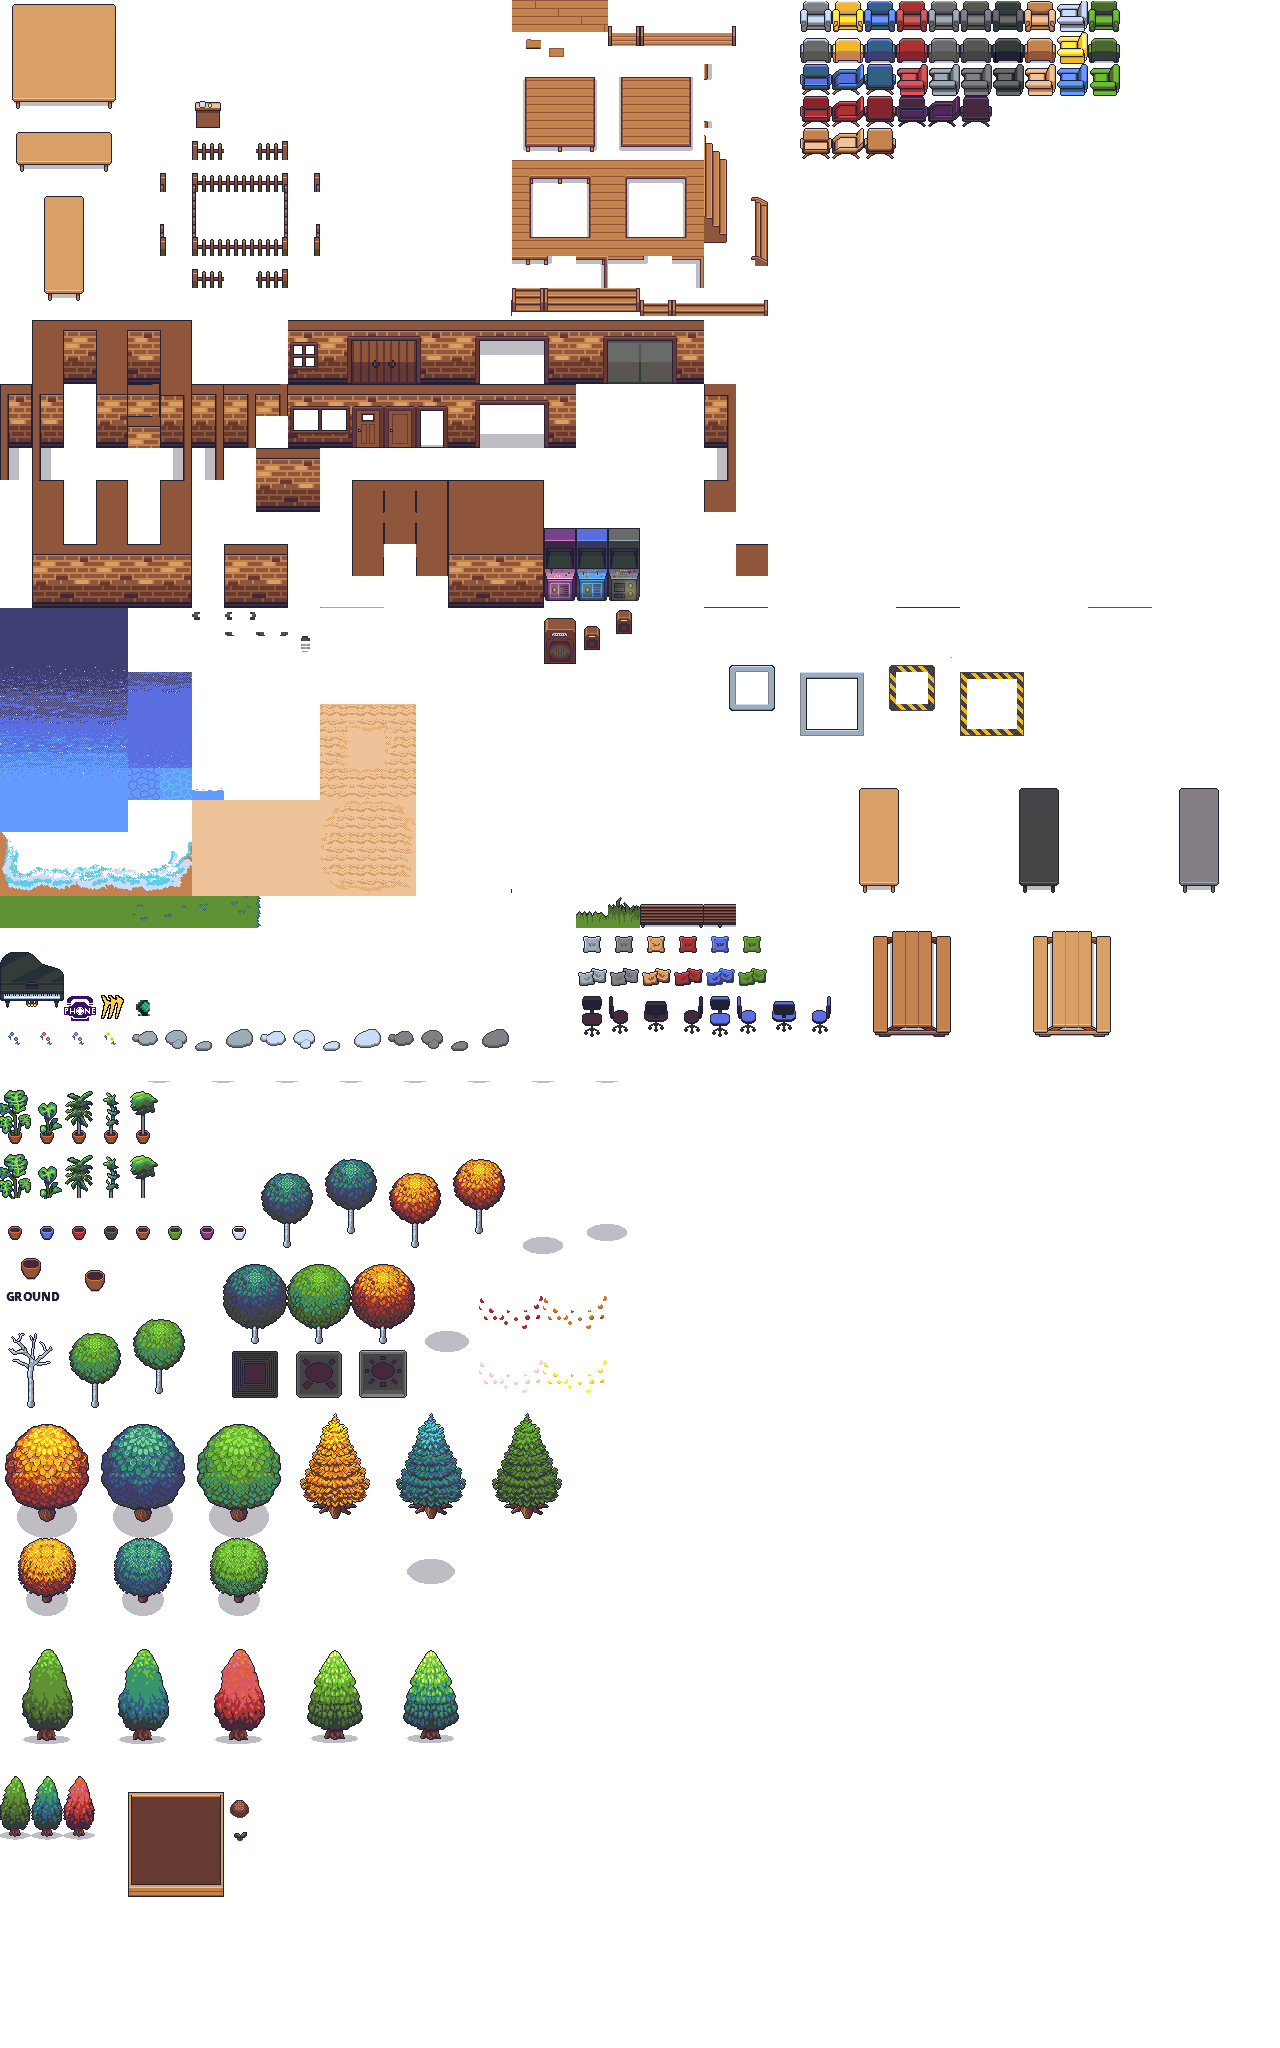
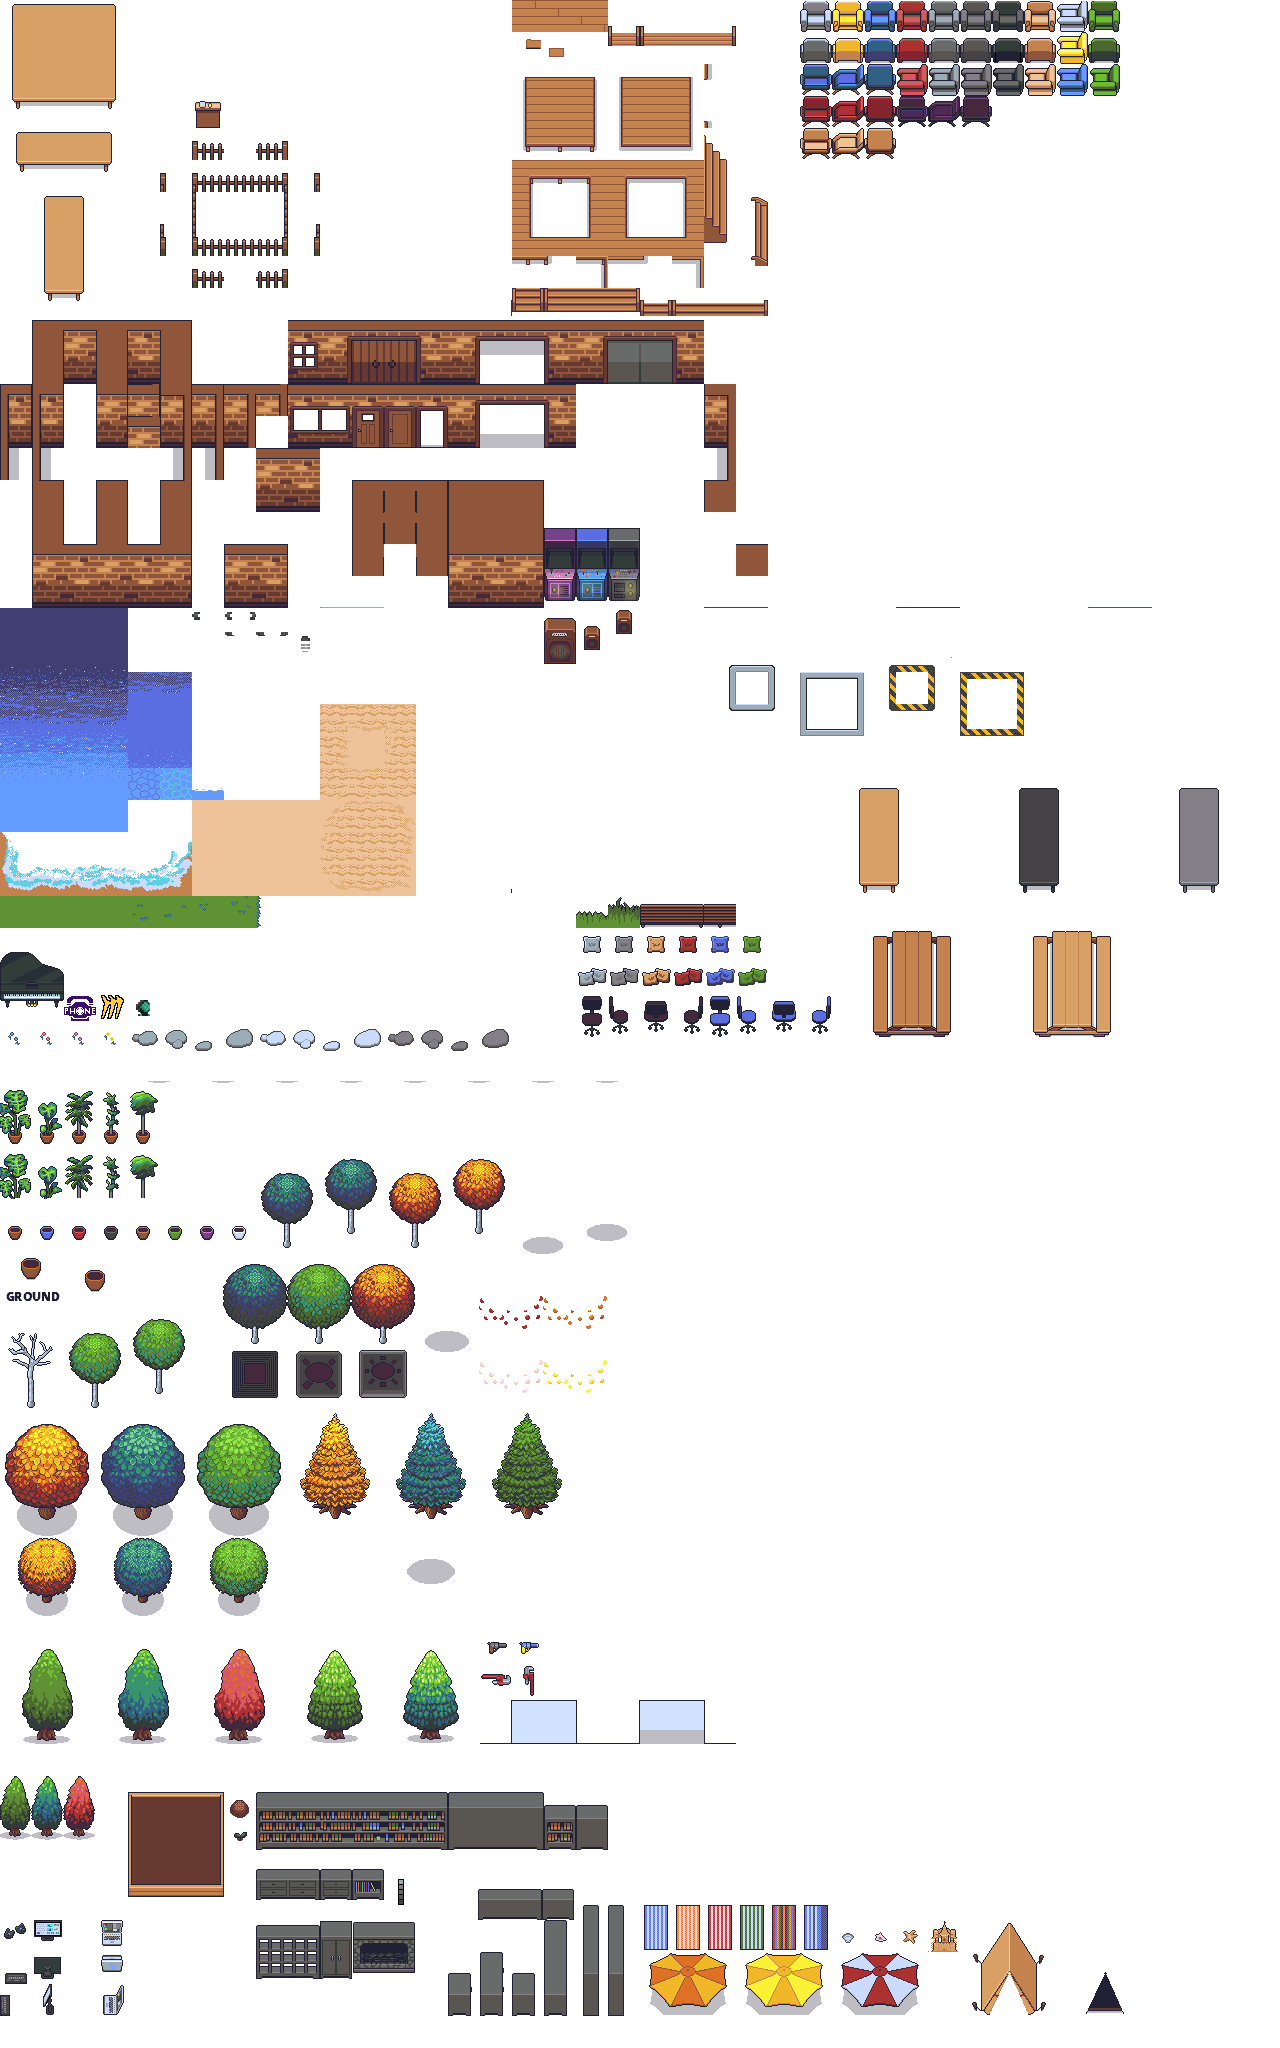
Nicer map and added controls for presentation

diff --git a/src/main/nodes/PresentationBoardNode.ts b/src/main/nodes/PresentationBoardNode.ts
@@ -36,12 +36,14 @@ export class PresentationBoardNode extends AsepriteNode<Gather> {
 
     private headlineNode = new TextNode<Gather>({ font: Gather.headlineFont, outlineColor: "grey" });
     private textNode = new TextNode<Gather>({ font: Gather.standardFont, });
+    private controlsNode = new TextNode<Gather>({ font: Gather.standardFont, text: "→ next\n← previous\nQ quit", anchor: Direction.TOP_LEFT});
 
     public slideIndex = 0;
 
     private lightNode = new LightNode({ x: this.x, y: this.y, width: PresentationBoardNode.sprite.width, height: PresentationBoardNode.sprite.height, anchor: Direction.CENTER, layer: Layer.LIGHT });
     private presentationIndex: number;
     private currentLine?: { slide: number; headline: string; subHeadline?: string, lines?: string[]; };
+    private isPresenter = false;
 
     public constructor(args: SceneNodeArgs) {
         super({
@@ -141,16 +143,24 @@ export class PresentationBoardNode extends AsepriteNode<Gather> {
         }
     }
 
-    public startPresentation(startIndex = 0): void {
+    public startPresentation(startIndex = 0, isPresenter = false): void {
         if (this.getTag() !== PresentationBoardTags.OUT && this.getTag() !== PresentationBoardTags.ROLL_OUT) {
             this.slideIndex = startIndex;
             this.setTag(PresentationBoardTags.ROLL_OUT);
+            this.appendChild(this.controlsNode);
+            if (isPresenter) {
+                this.controlsNode.moveTo(this.getWidth() / 2 + 4, -this.getHeight() / 2);
+            }
+            this.isPresenter = isPresenter;
         }
     }
 
     public endPresentation(): void {
         if (this.getTag() !== PresentationBoardTags.IN && this.getTag() !== PresentationBoardTags.ROLL_IN) {
             this.setTag(PresentationBoardTags.ROLL_IN);
+        }
+        if (this.isPresenter) {
+            this.controlsNode.remove();
         }
     }
 

diff --git a/src/main/nodes/TiledTextNode.ts b/src/main/nodes/TiledTextNode.ts
@@ -1,0 +1,25 @@
+import { asset } from "../../engine/assets/Assets";
+import { BitmapFont } from "../../engine/assets/BitmapFont";
+import { TextNode } from "../../engine/scene/TextNode";
+import { TiledSceneArgs } from "../../engine/scene/TiledMapNode";
+import { clamp } from "../../engine/util/math";
+import { HEADLINE_FONT, STANDARD_FONT } from "../constants";
+import { Gather } from "../Gather";
+
+
+export class TiledTextNode extends TextNode<Gather> {
+
+    @asset([
+        HEADLINE_FONT,
+        STANDARD_FONT
+    ])
+    private static fonts: Array<BitmapFont>;
+
+    public constructor(args?: TiledSceneArgs) {
+        const text = args?.tiledObject?.getOptionalProperty("text", "string")?.getValue() ?? "";
+        const outlineColor = args?.tiledObject?.getOptionalProperty("outlined", "string")?.getValue() ?? undefined;
+        const fontIndex = clamp(args?.tiledObject?.getOptionalProperty("font", "int")?.getValue() ?? 0, 0, TiledTextNode.fonts.length);
+
+        super({ ...args, font: TiledTextNode.fonts[fontIndex], outlineColor, text});
+    }
+}

diff --git a/src/main/scenes/GameScene.ts b/src/main/scenes/GameScene.ts
@@ -24,6 +24,7 @@ import { PresentationNode } from "../nodes/PresentationNode";
 import { IFrameNode } from "../nodes/IFrameNode";
 import { SpeakerNode } from "../nodes/SpeakerNode";
 import { CatNode } from "../nodes/CatNode";
+import { TiledTextNode } from "../nodes/TiledTextNode";
 
 export class GameScene extends Scene<Gather> {
     @asset(STANDARD_FONT)
@@ -48,7 +49,8 @@ export class GameScene extends Scene<Gather> {
         "presentation": PresentationNode,
         "iframe": IFrameNode,
         "speaker": SpeakerNode,
-        "cat": CatNode
+        "cat": CatNode,
+        "text": TiledTextNode
     }});
 
     public setup() {

diff --git a/src/main/nodes/PresentationNode.ts b/src/main/nodes/PresentationNode.ts
@@ -56,7 +56,7 @@ export class PresentationNode extends InteractiveNode {
                 input.onButtonDown.connect(this.handleButtonPress, this);
                 this.getScene()?.camera.focus(this.presentationBoard).then((successful) => {
                     if (successful) {
-                        this.presentationBoard?.startPresentation();
+                        this.presentationBoard?.startPresentation(0, true);
                         if (player != null) {
                             player.startPresentation();
                         }

diff --git a/TODO.md b/TODO.md
@@ -32,13 +32,15 @@
 
     [X] check how screensharing to canvas looks -> is shit
 
+    [X] show controls for presentation
+
 [X] add chat option (public)
 
 [X] add chat option (private)
 
 [X] implement collaborative whiteboard thing of jitsi or miro
 
-[ ] map-making
+[X] map-making
 
 [X] face recognition and repositioning for user videos
 
